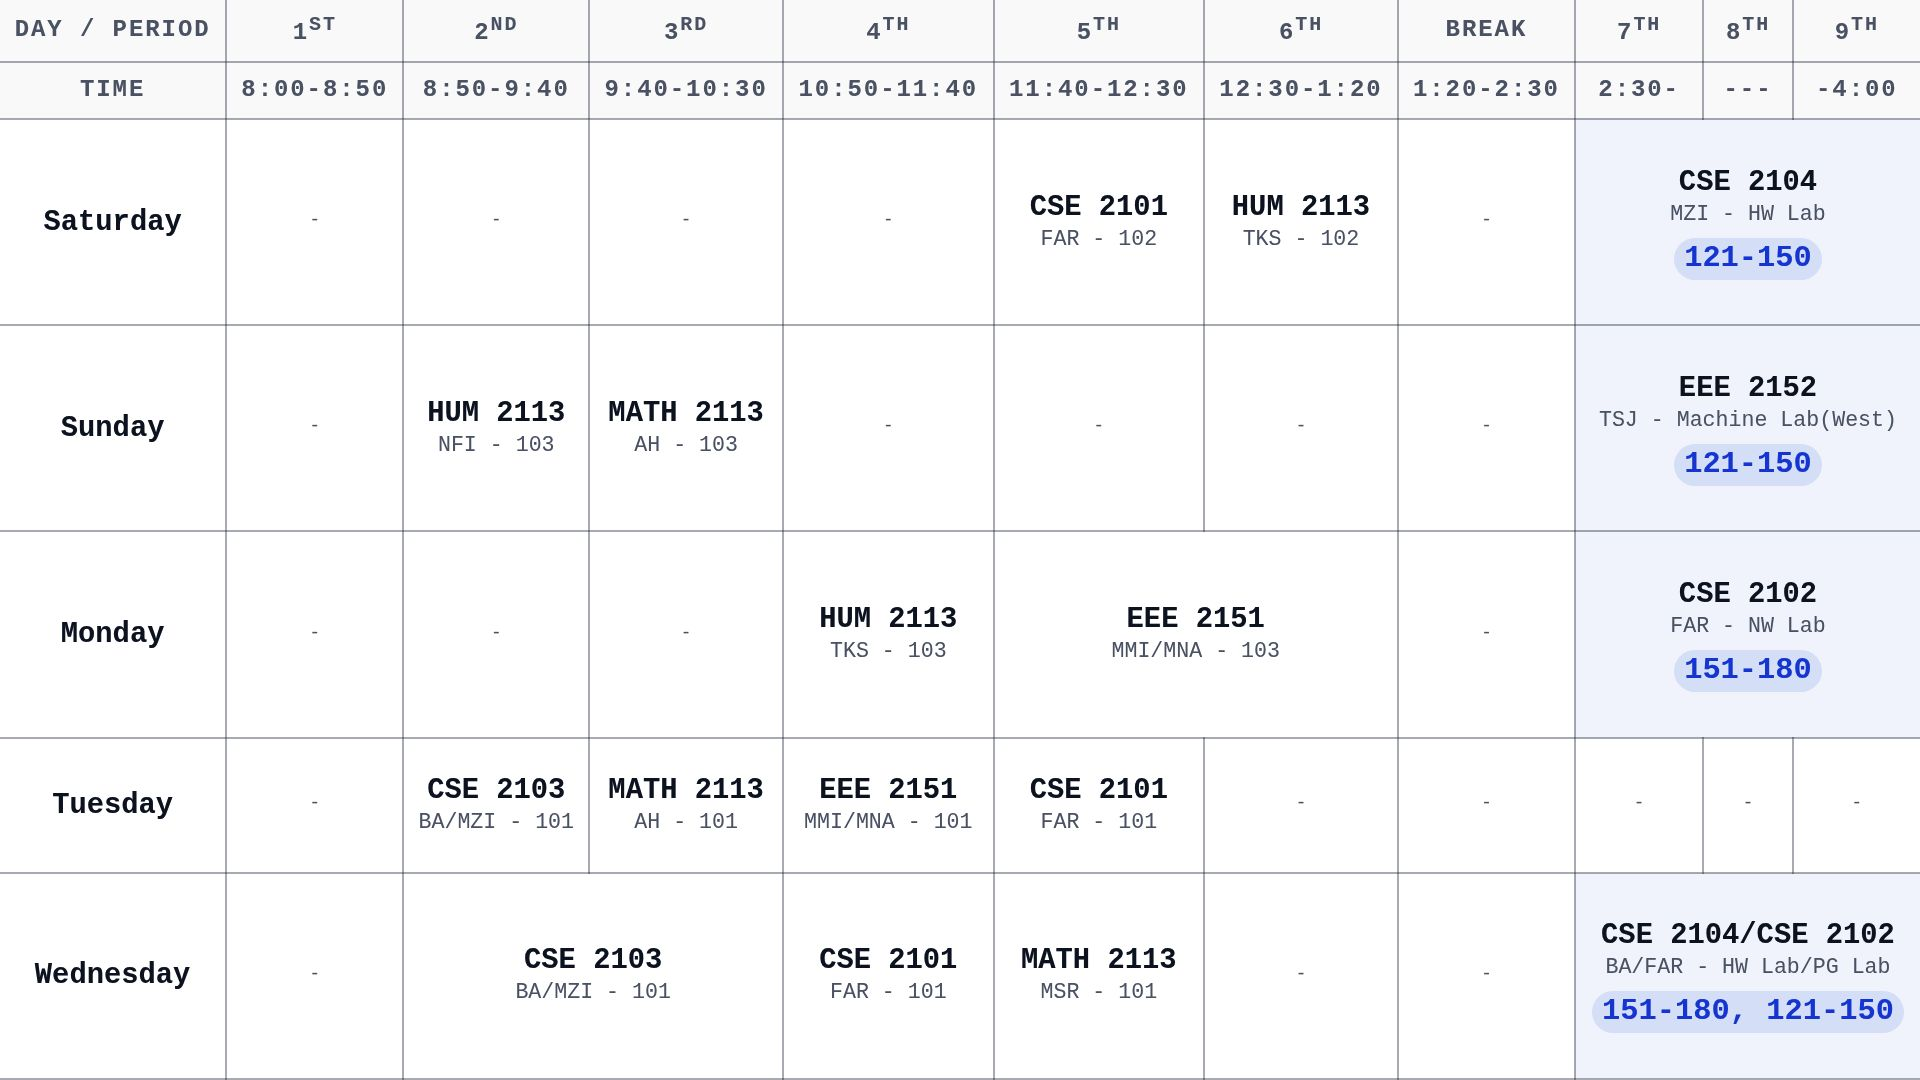
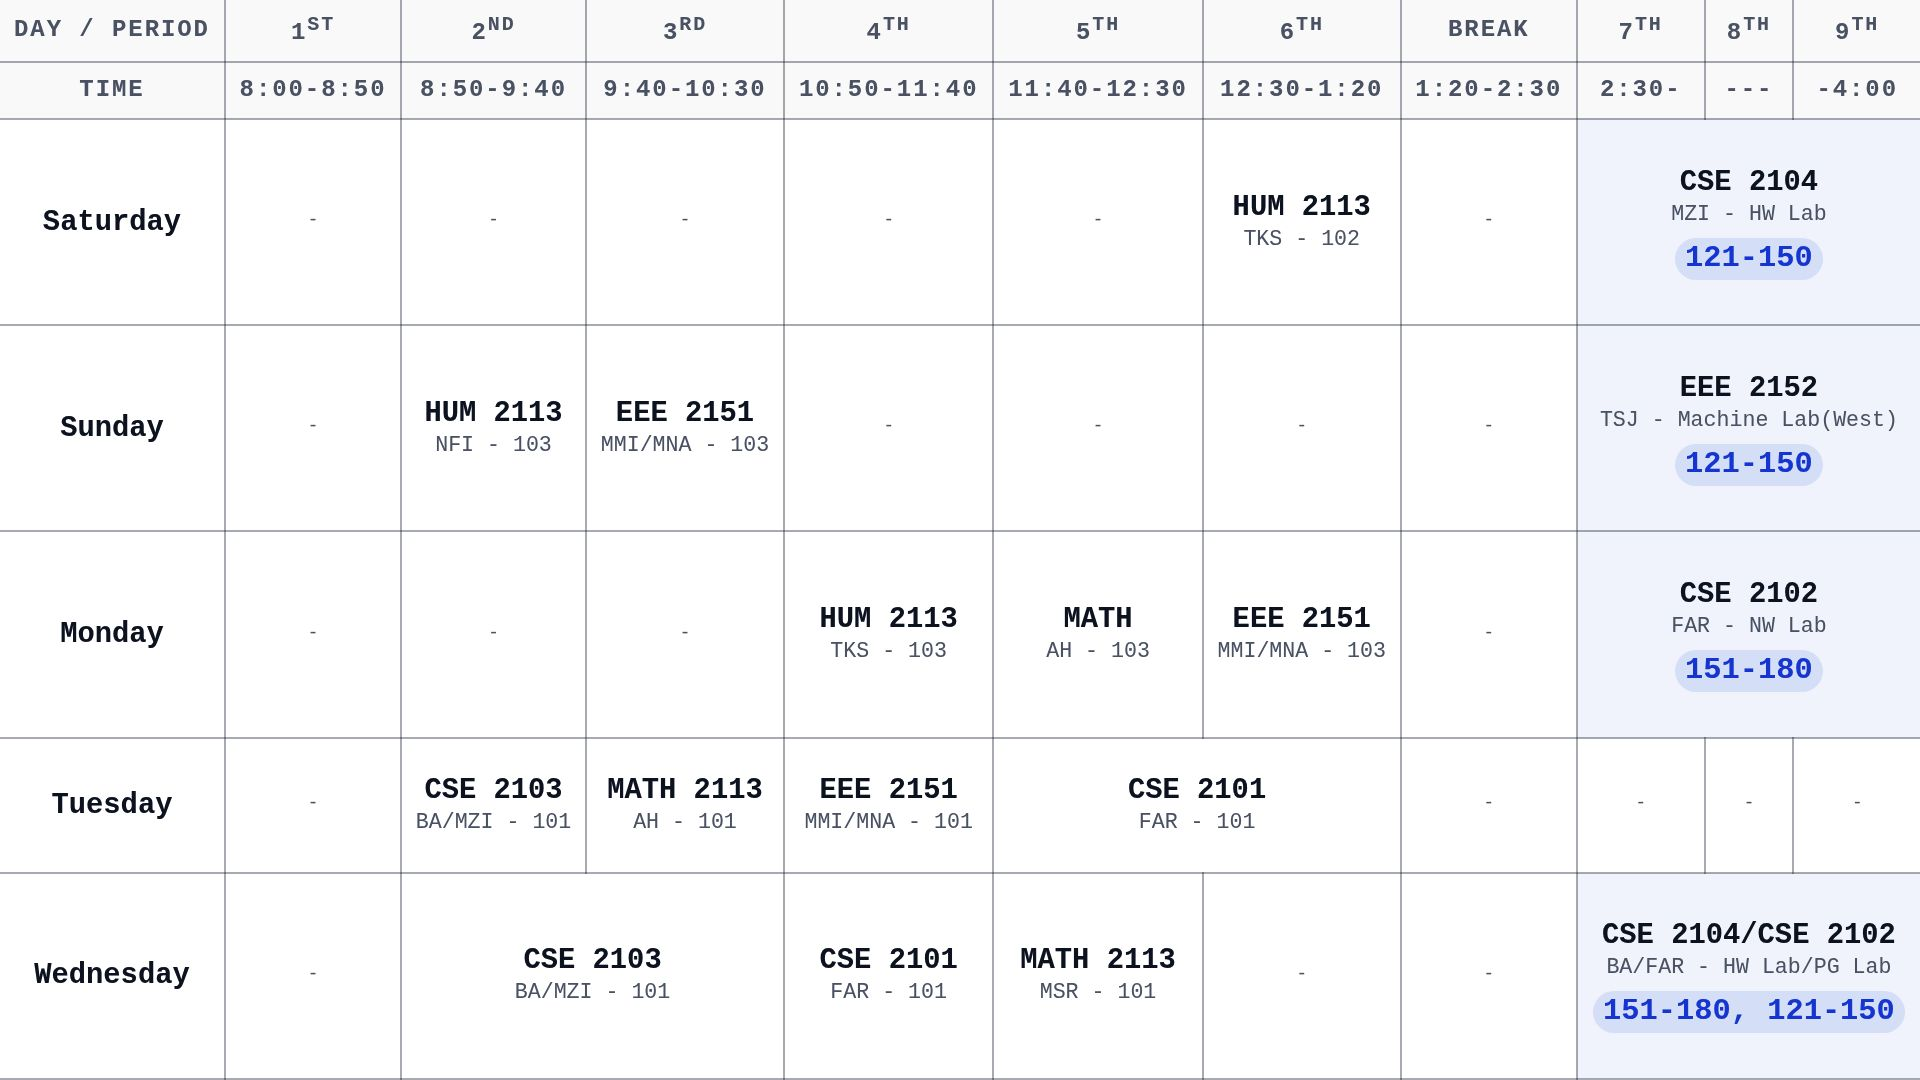
added webhooks

diff --git a/bot/main.py b/bot/main.py
@@ -46,8 +46,9 @@ def run_webhook():
     public_url = f"{WEBHOOK_URL.rstrip('/')}/{webhook_path}"
     print(f"Starting in WEBHOOK mode → {public_url} (port {port})")
 
-    # PTB's webhook server handles health checks via the webhook endpoint itself,
-    # so no separate health server needed in webhook mode.
+    # Python 3.14+ requires an explicit event loop before PTB can find one
+    asyncio.set_event_loop(asyncio.new_event_loop())
+
     app.run_webhook(
         listen="0.0.0.0",
         port=port,

diff --git a/README.md b/README.md
@@ -211,7 +211,7 @@ Access with `/admin` command (whitelisted Telegram IDs in `config.admin_list`).
 ### MongoDB — `schedule`
 
 | Collection | Purpose |
-|---|---|
+|---|---|f
 | `ct` | Class test schedules |
 | `assignment` | Assignment deadlines |
 | `semester_final` | Semester final exam dates |
